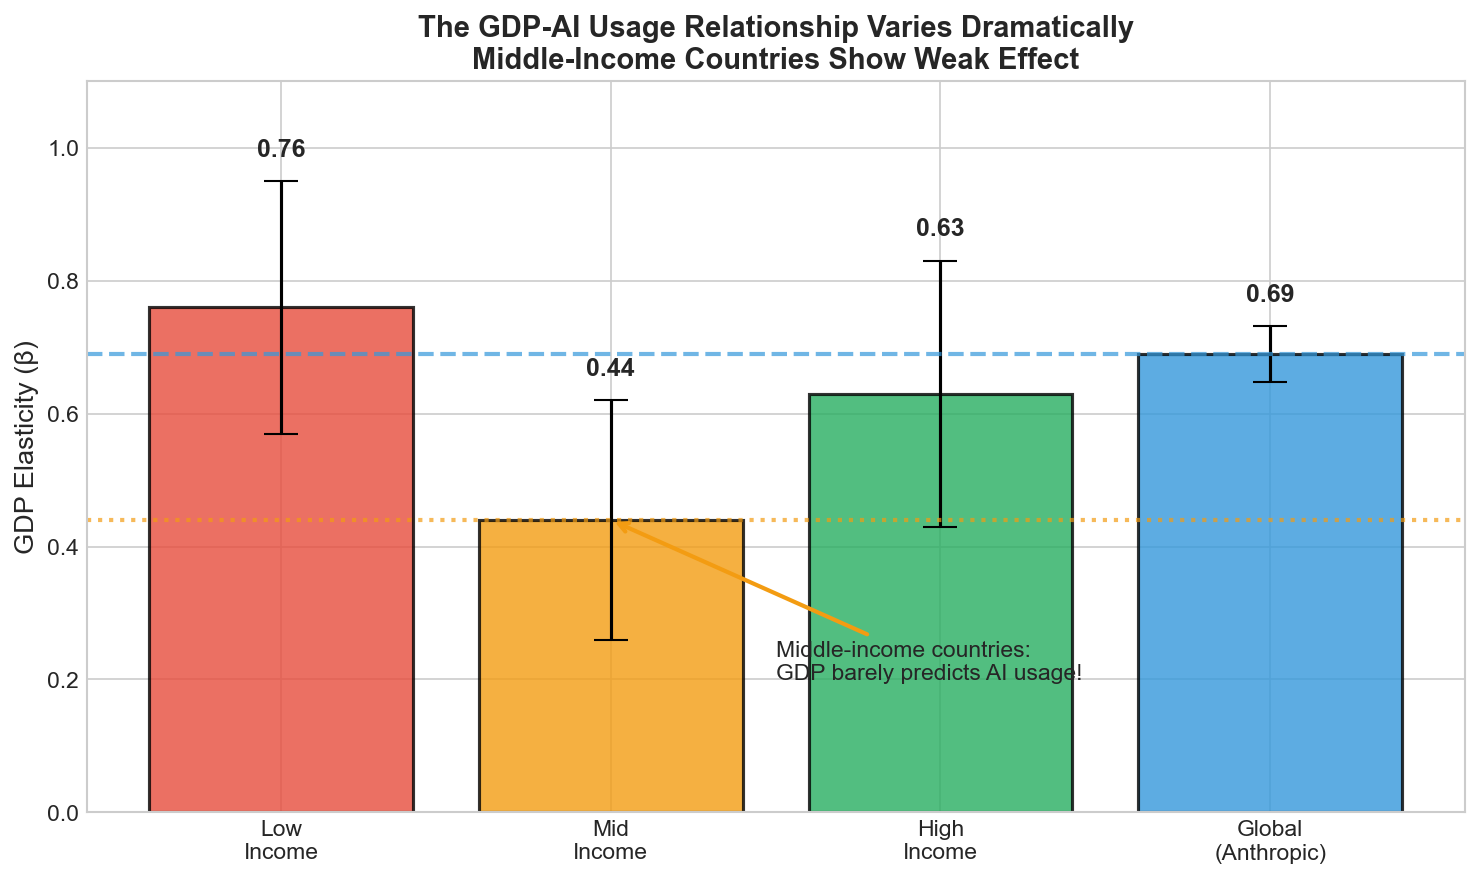
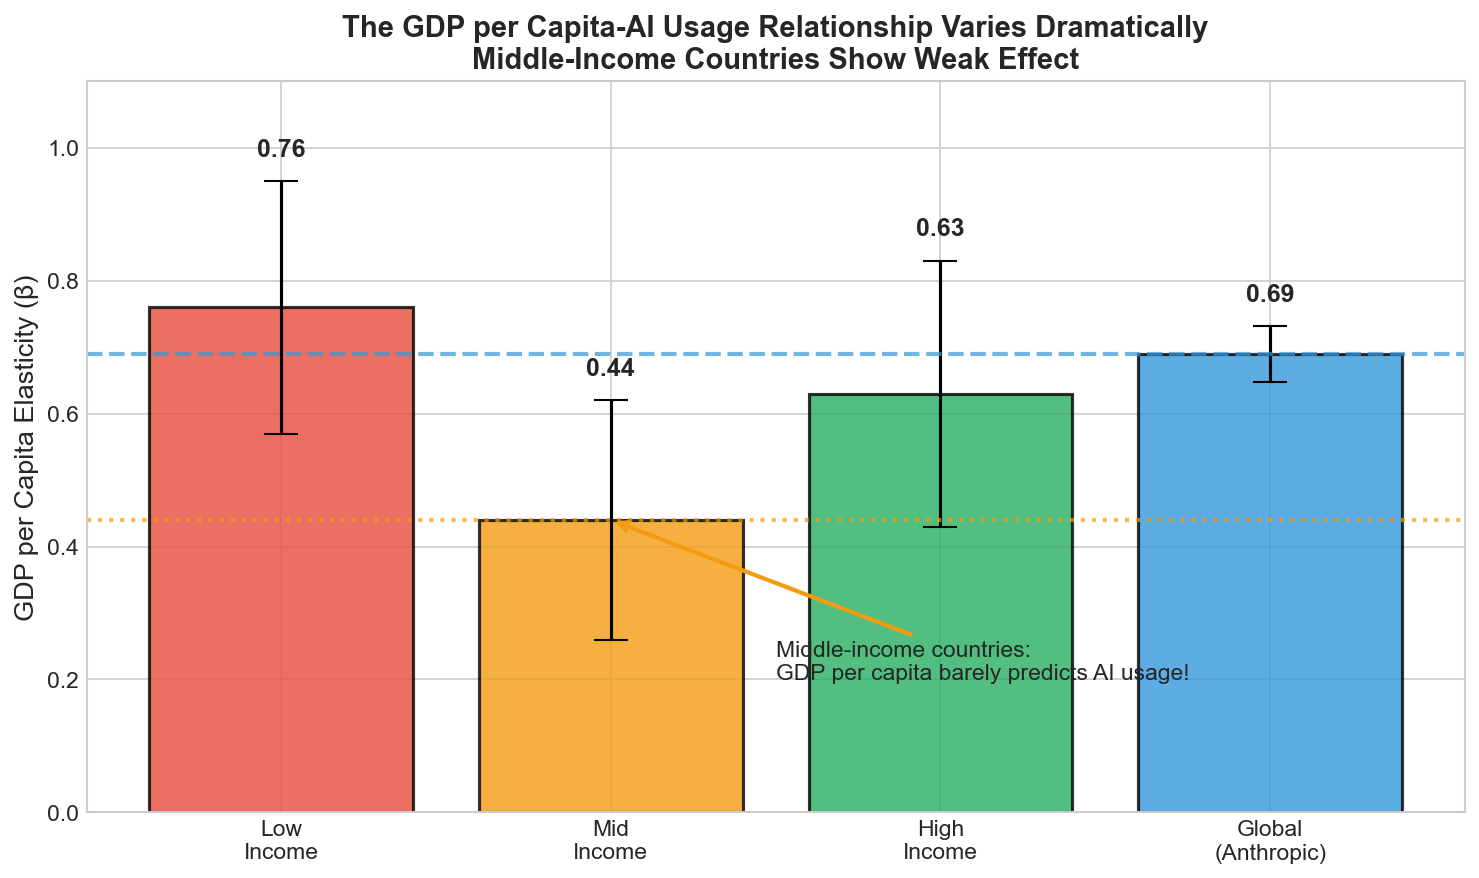
Fix Figure 2: GDP -> GDP per capita in labels
- Y-axis: GDP per Capita Elasticity
- Title: GDP per Capita-AI Usage Relationship
- Annotation: GDP per capita barely predicts

diff --git a/create_figures.py b/create_figures.py
@@ -138,8 +138,8 @@ bars = ax.bar(categories, slopes, yerr=errors, capsize=8, color=bar_colors,
 ax.axhline(0.69, color='#3498db', linestyle='--', linewidth=2, alpha=0.7, label="Anthropic's global estimate")
 ax.axhline(0.44, color='#f39c12', linestyle=':', linewidth=2, alpha=0.7)
 
-ax.set_ylabel('GDP Elasticity (β)', fontsize=13)
-ax.set_title('The GDP-AI Usage Relationship Varies Dramatically\nMiddle-Income Countries Show Weak Effect', fontsize=14, fontweight='bold')
+ax.set_ylabel('GDP per Capita Elasticity (β)', fontsize=13)
+ax.set_title('The GDP per Capita-AI Usage Relationship Varies Dramatically\nMiddle-Income Countries Show Weak Effect', fontsize=14, fontweight='bold')
 ax.set_ylim(0, 1.1)
 
 # Add value labels
@@ -148,7 +148,7 @@ for bar, slope, err in zip(bars, slopes, errors):
             f'{slope:.2f}', ha='center', va='bottom', fontsize=12, fontweight='bold')
 
 # Annotation
-ax.annotate('Middle-income countries:\nGDP barely predicts AI usage!',
+ax.annotate('Middle-income countries:\nGDP per capita barely predicts AI usage!',
             xy=(1, 0.44), xytext=(1.5, 0.2),
             fontsize=11, ha='left',
             arrowprops=dict(arrowstyle='->', color='#f39c12', lw=2))
